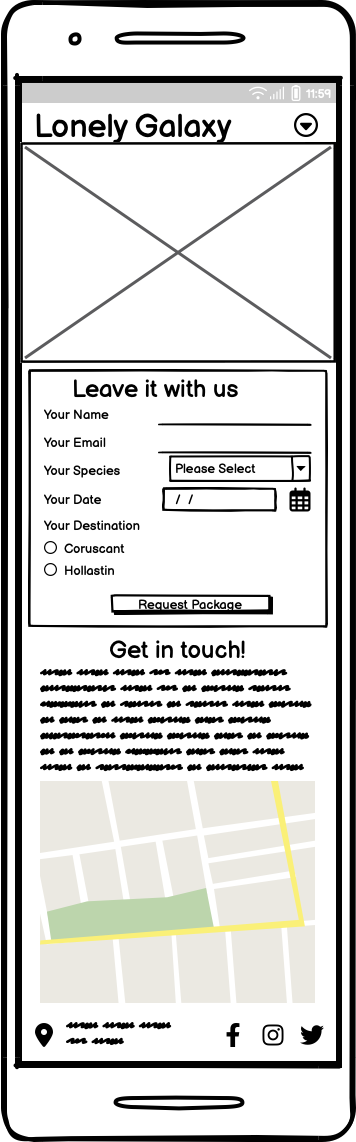
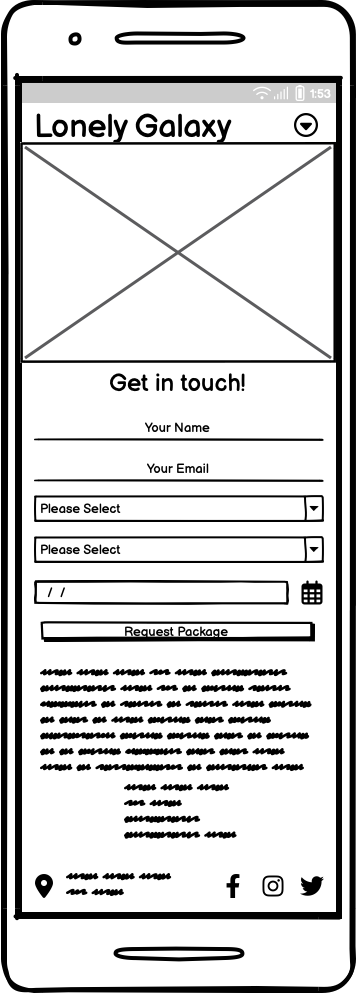
update readme with new wireframes for bookings.html

diff --git a/README.md b/README.md
@@ -101,7 +101,7 @@ Bookings | ![Wireframe Bookings Desktop Image](assets/wireframes/WF-bookings-des
 - The footer is identical across all pages.
 - The footer contains a location icon in the bottom left, and links to the business' social media channels in the bottom right.
 - On larger screens, the business' address appears next to the location icon.
-- The location icon functions as a link to the Bookings page, which includes a map and the business' full address.
+- The location icon functions as a link to the Bookings page, which includes the business' full address.
 
 ### Home Page
 **Main Image**
@@ -122,7 +122,7 @@ Bookings | ![Wireframe Bookings Desktop Image](assets/wireframes/WF-bookings-des
 ### Destinations Page
 ![Destinations Image](assets/readme-files/destinations-example.png)
 - The Destinations page is the only page without a banner or main image. Instead, it contains cards for each possible destination.
-- The cards are made up of an image of the planetary view at the top, followed by some information about this destination. At the bottom of the card, a link will take clients to the Bookings page.
+- The cards are made up of an image of the planetary view at the top, followed by some information about this destination. At the bottom of the card, a link takes clients to the Bookings page.
 - Each card is fully responsive and easy to edit or replicate in case destinations change or more destinations are added.
 
 ### Bookings Page
@@ -301,13 +301,11 @@ Home Page
 Destinations Page
 - Hovering over the cards triggers a hover effect which has the card slide up a few pixels.
 - Hovering over the Learn More button inverts the colors of the button and its text.
-- Clickin on the Learn More button brings clients to the Bookings page.
+- Clicking on the Learn More button brings clients to the Bookings page.
 
 Bookings Page
 - When filling out the form, clients are required to fill out all forms before submitting.
 - Hovering over the Request Personalized Package button inverts the colors of the button and its text.
-- Clicking and dragging on the map moves the visible area on the map
-- Clicking the plus and minus buttons changes the zoom of the map.
 
 404 Page
  - Clicking on the homepage link brings the client back to the Home page.
